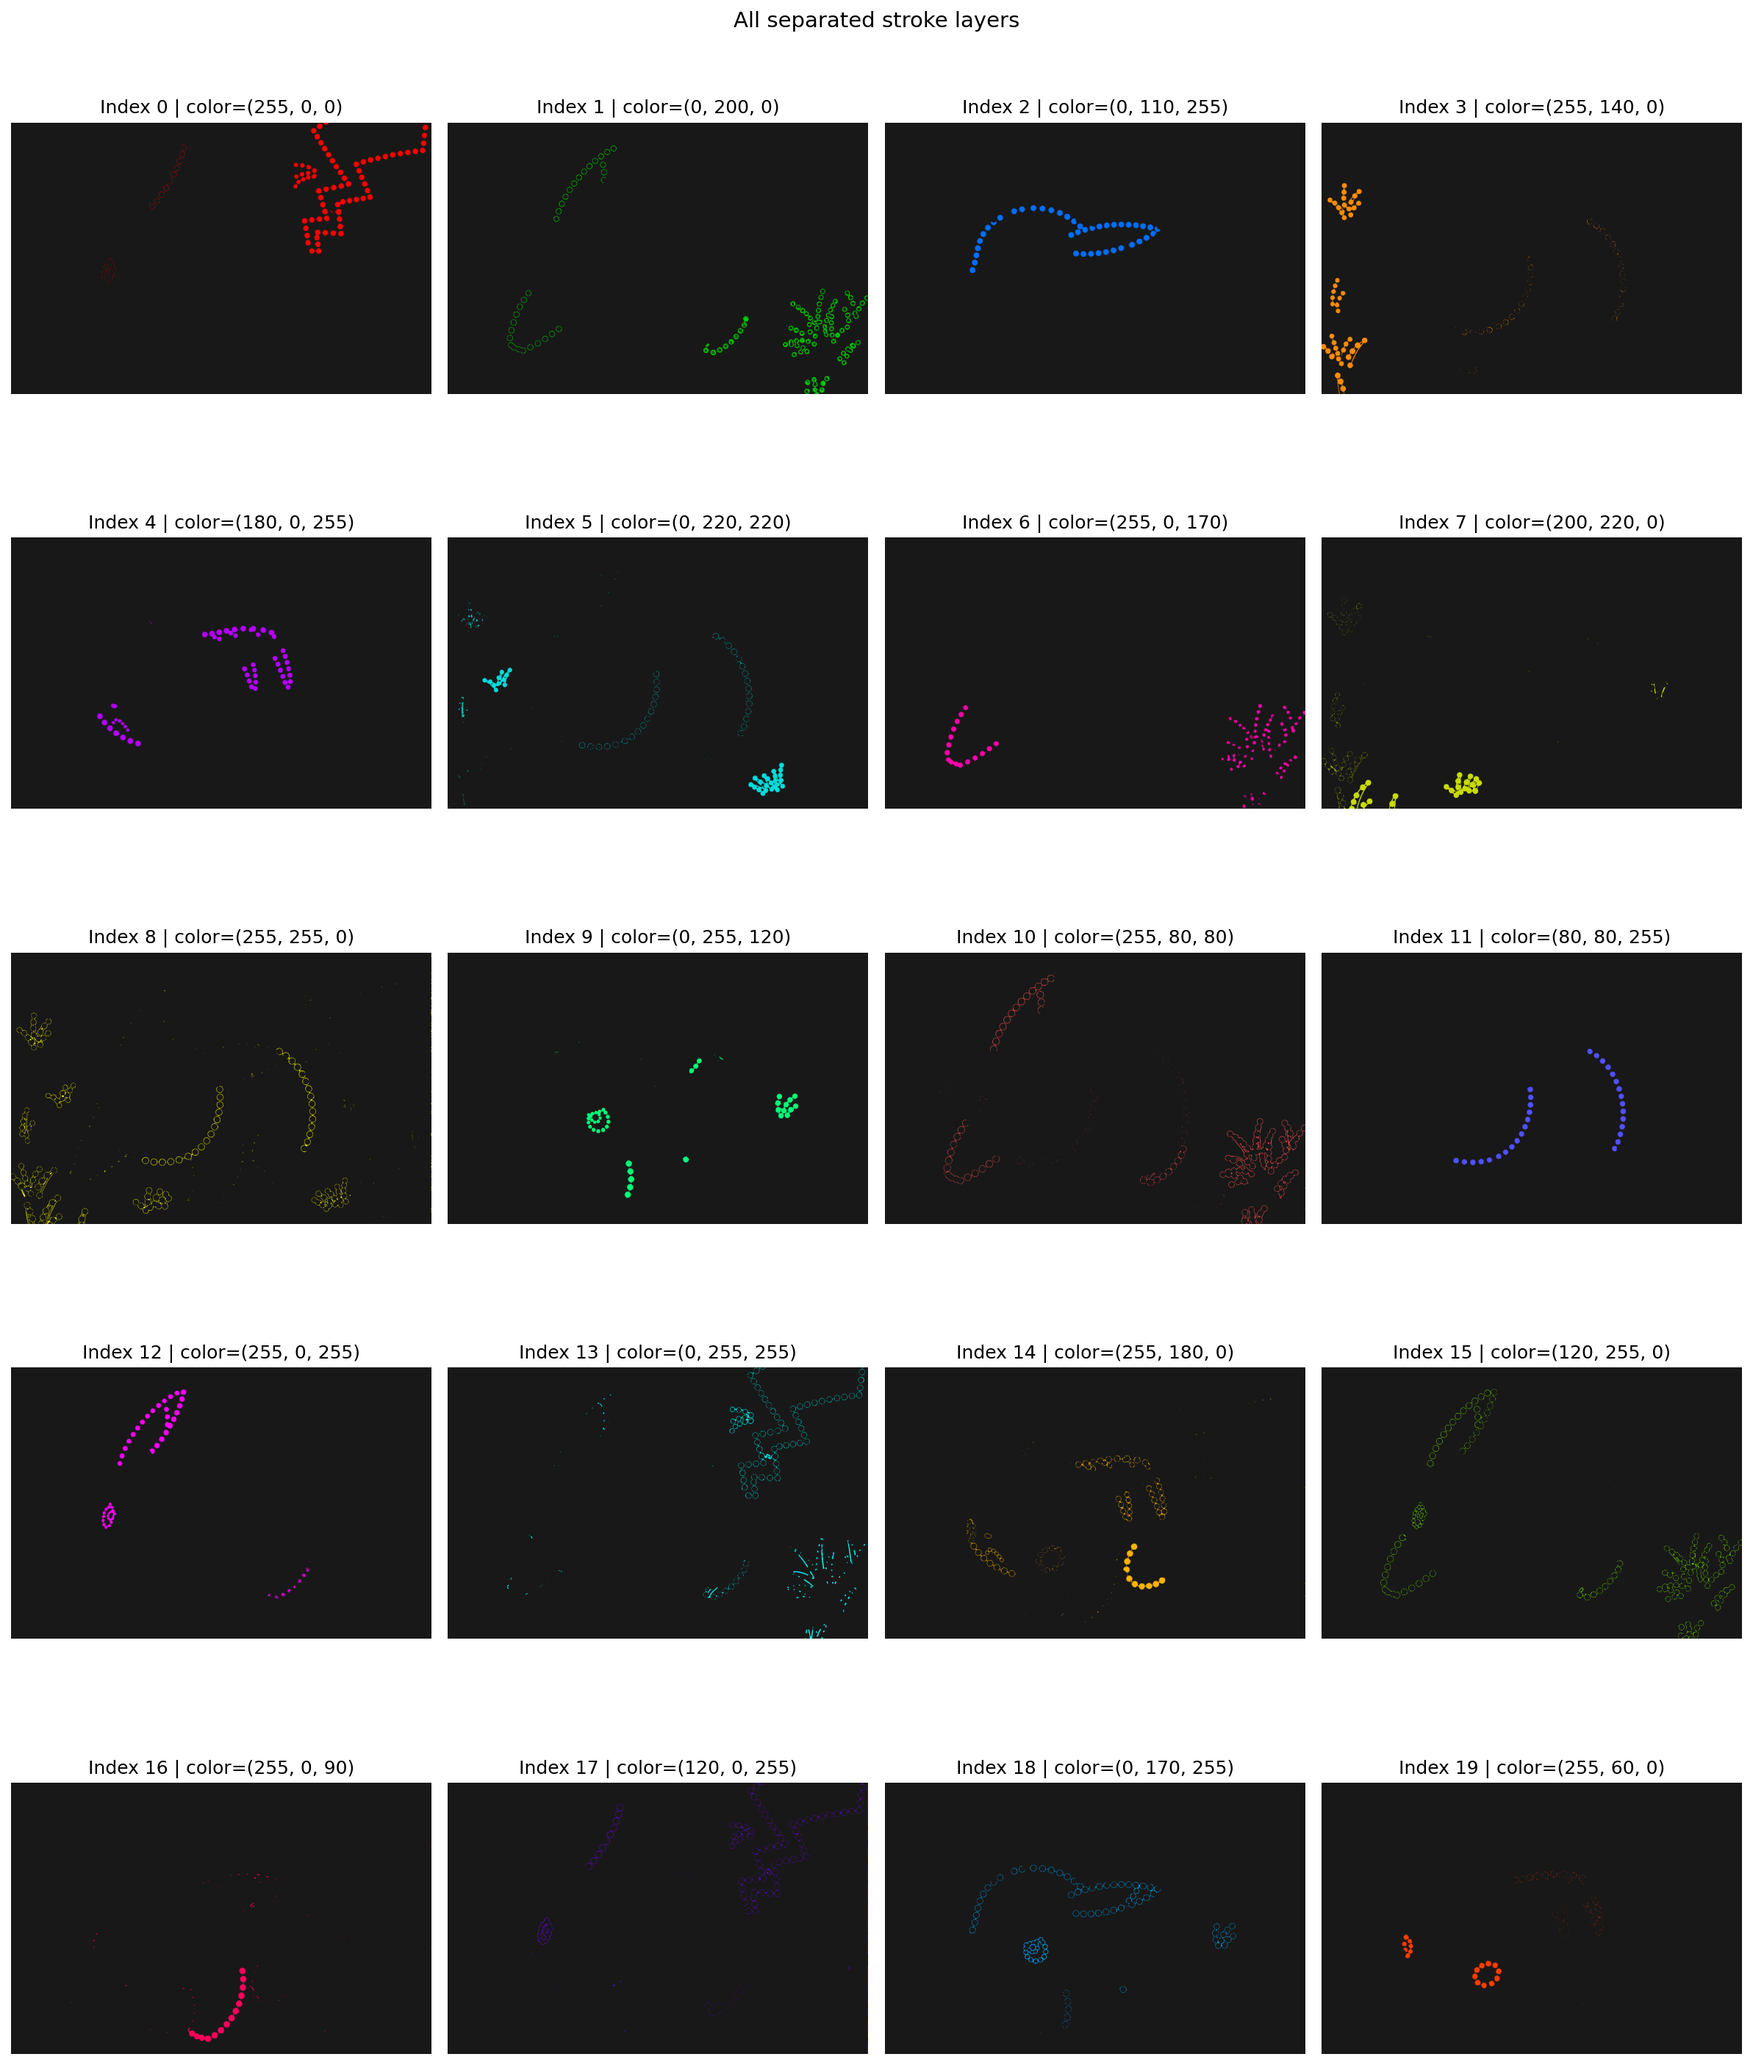
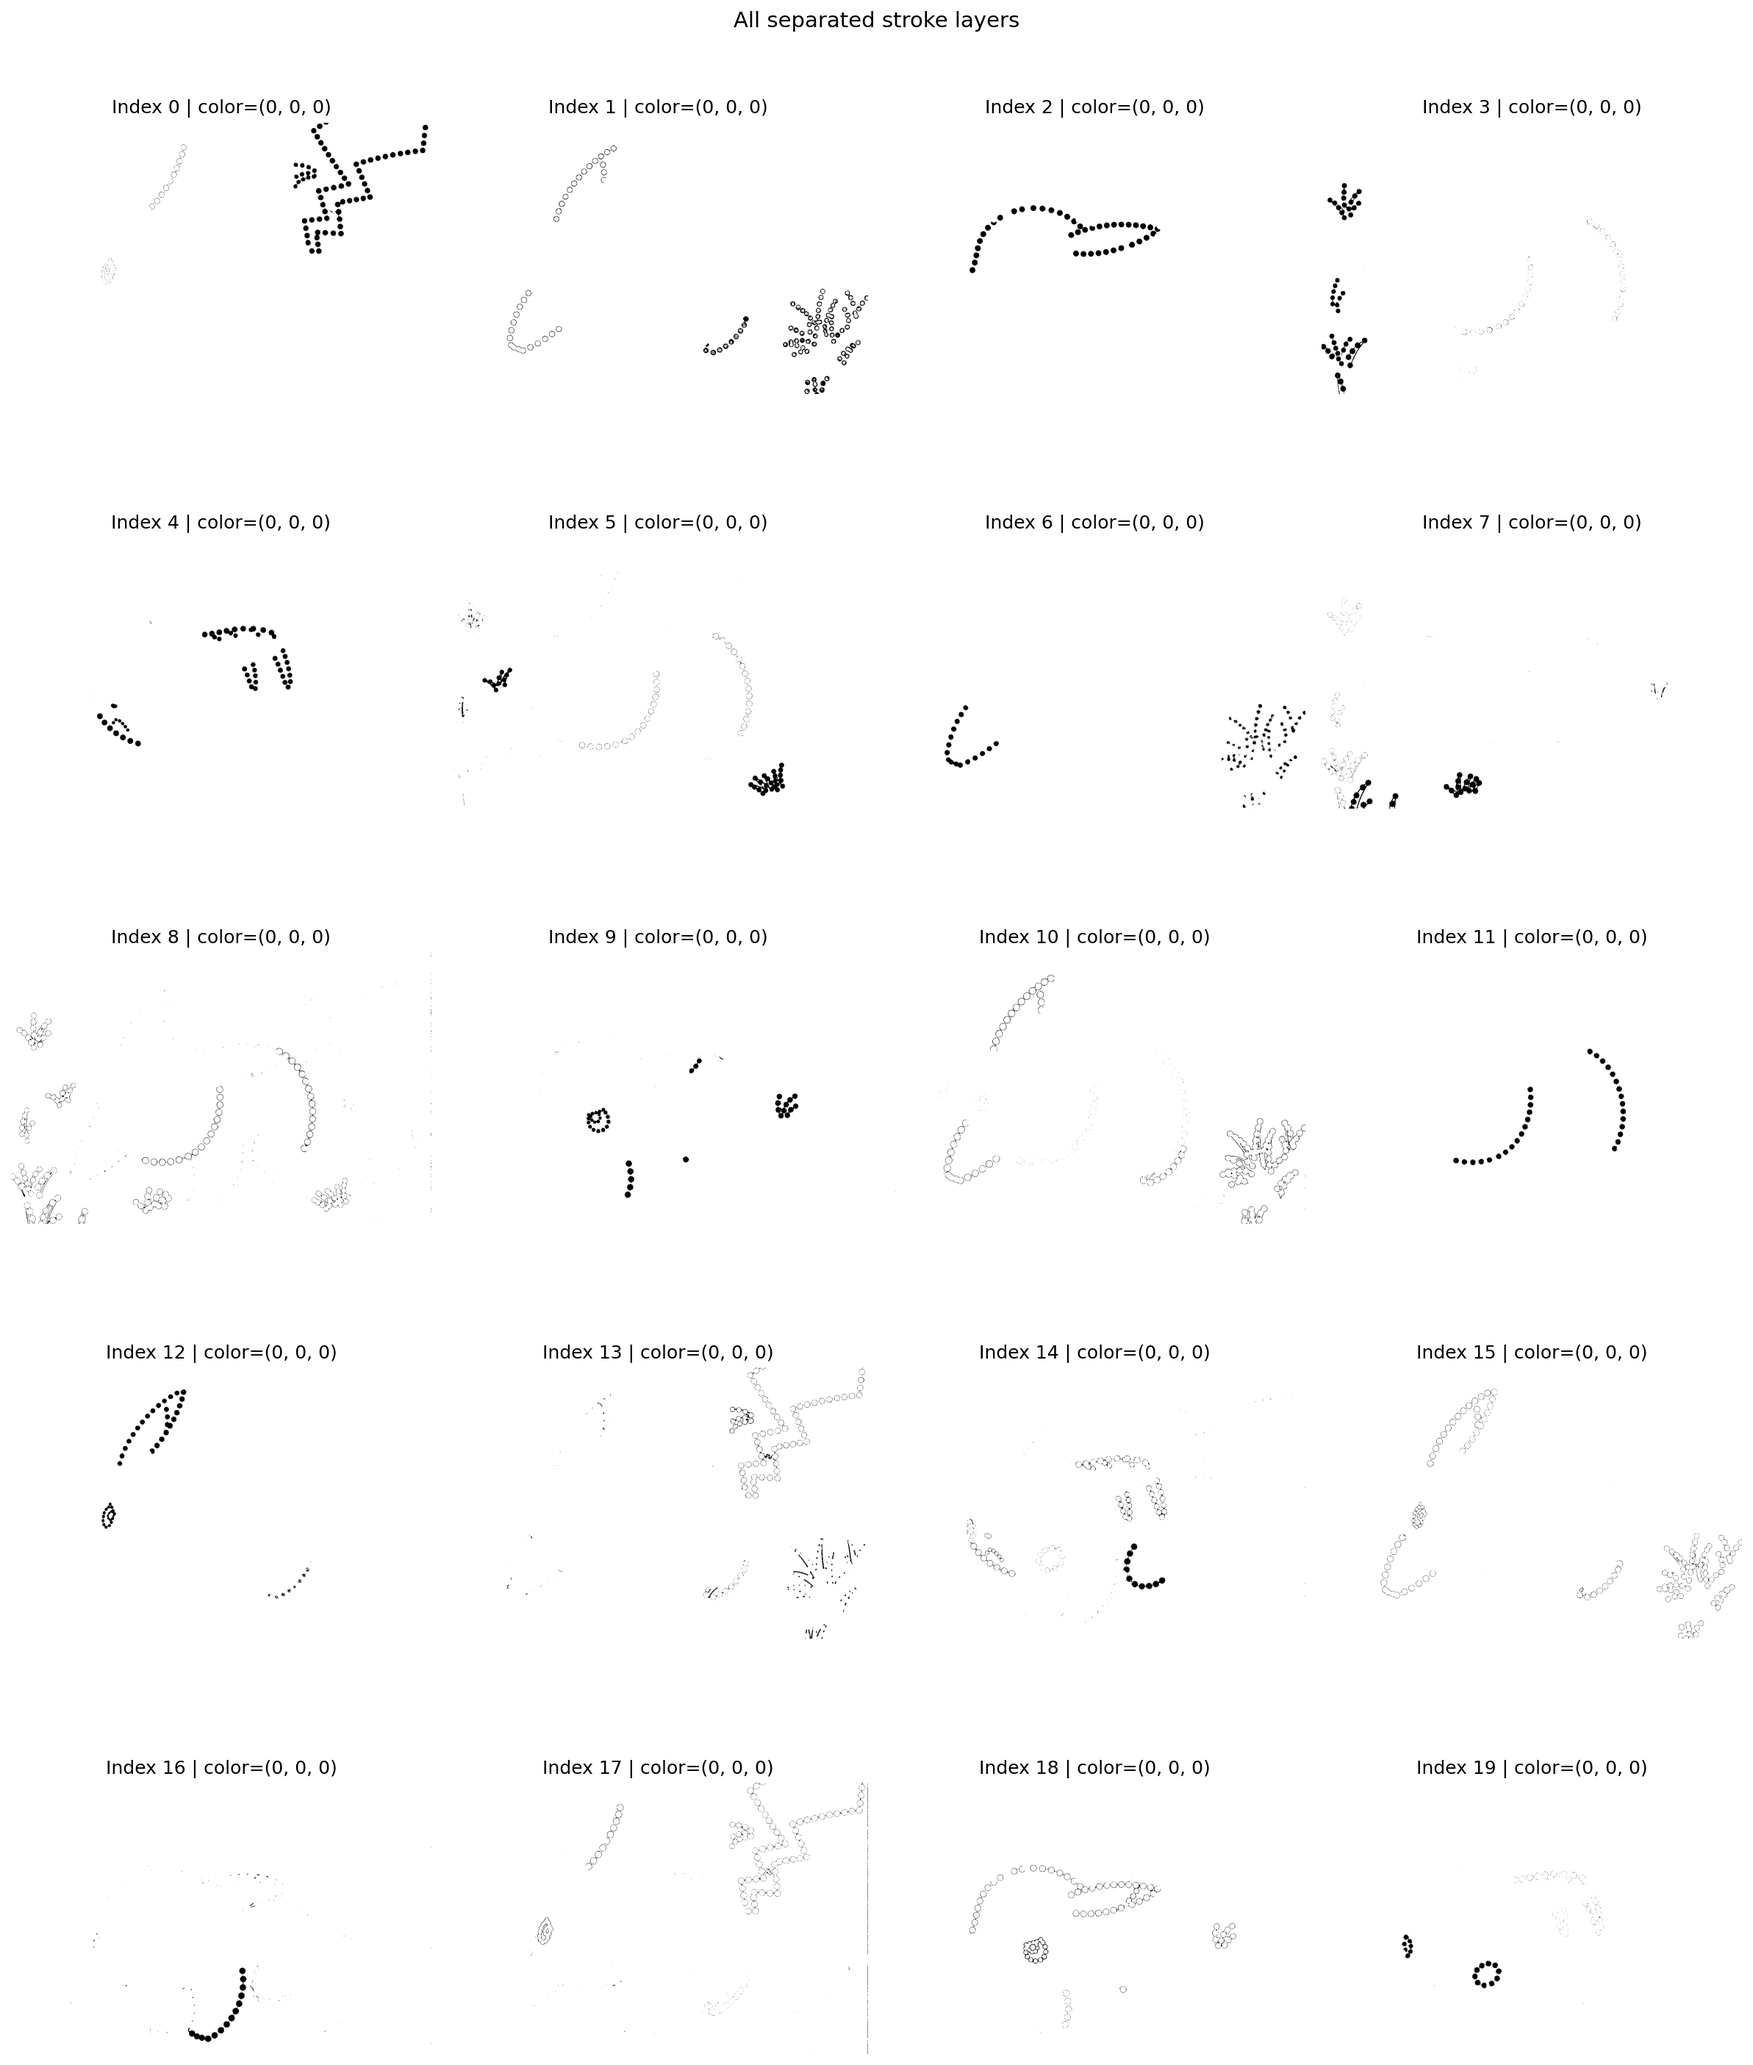
updated cv

diff --git a/backend/services/image_processing_service.py b/backend/services/image_processing_service.py
@@ -14,31 +14,7 @@ _GRAY_VALUE_TOLERANCE = 0.14
 _GRAY_SATURATION_TOLERANCE = 0.10
 _MIN_PIXELS_PER_GROUP = 20
 _MAX_STROKE_GROUPS = 20
-_DISPLAY_PALETTE = np.asarray(
-    [
-        [255, 0, 0],
-        [0, 200, 0],
-        [0, 110, 255],
-        [255, 140, 0],
-        [180, 0, 255],
-        [0, 220, 220],
-        [255, 0, 170],
-        [200, 220, 0],
-        [255, 255, 0],
-        [0, 255, 120],
-        [255, 80, 80],
-        [80, 80, 255],
-        [255, 0, 255],
-        [0, 255, 255],
-        [255, 180, 0],
-        [120, 255, 0],
-        [255, 0, 90],
-        [120, 0, 255],
-        [0, 170, 255],
-        [255, 60, 0],
-    ],
-    dtype=np.uint8,
-)
+_DISPLAY_COLOR = np.asarray([0, 0, 0], dtype=np.uint8)
 
 
 def _distance_from_white(colors: np.ndarray) -> np.ndarray:
@@ -178,9 +154,9 @@ def _merge_groups_to_max(
 
 def _apply_display_palette(groups: list[dict]) -> list[dict]:
     recolored_groups: list[dict] = []
-    for index, group in enumerate(groups):
+    for group in groups:
         recolored_group = dict(group)
-        recolored_group["display_color"] = _DISPLAY_PALETTE[index % len(_DISPLAY_PALETTE)]
+        recolored_group["display_color"] = _DISPLAY_COLOR
         recolored_groups.append(recolored_group)
     return recolored_groups
 

diff --git a/backend/services/test_layer_indexes.py b/backend/services/test_layer_indexes.py
@@ -56,7 +56,7 @@ def save_grid(layers: dict[int, np.ndarray], output_path: Path, title: str) -> N
         visible = layer[layer[..., 3] > 0]
         colors = np.unique(visible[:, :3], axis=0) if len(visible) else np.empty((0, 3), dtype=np.uint8)
         color = tuple(int(channel) for channel in colors[0]) if len(colors) else None
-        preview = np.full((layer.shape[0], layer.shape[1], 3), 24, dtype=np.uint8)
+        preview = np.full((layer.shape[0], layer.shape[1], 3), 255, dtype=np.uint8)
         alpha = layer[..., 3:4].astype(np.float32) / 255.0
         preview = (preview * (1.0 - alpha) + layer[..., :3] * alpha).astype(np.uint8)
         axes[row, col].imshow(preview)
@@ -87,7 +87,7 @@ def dilate_mask(mask: np.ndarray, iterations: int = 2) -> np.ndarray:
     return expanded
 
 
-def build_visible_preview(layer: np.ndarray, background_value: int = 24, dilation_iterations: int = 2) -> np.ndarray:
+def build_visible_preview(layer: np.ndarray, background_value: int = 245, dilation_iterations: int = 2) -> np.ndarray:
     mask = layer[..., 3] > 0
     thick_mask = dilate_mask(mask, iterations=dilation_iterations)
     preview = np.full((layer.shape[0], layer.shape[1], 4), 0, dtype=np.uint8)

diff --git a/backend/services/gemini_service.py b/backend/services/gemini_service.py
@@ -33,6 +33,7 @@ async def ingest_reference_image(request: IngestReferenceImageRequest) -> Image.
         "Do not draw outlines, curves, sketch lines, shadows, glow, texture, or gradients. "
         "Each stroke should appear only as separated, clearly visible, filled circular dots. "
         "Keep the background plain white. "
+        "Do not include the background in the stroke colors. "
         "Do NOT add any numbers, labels, arrows, or text."
     )
 
